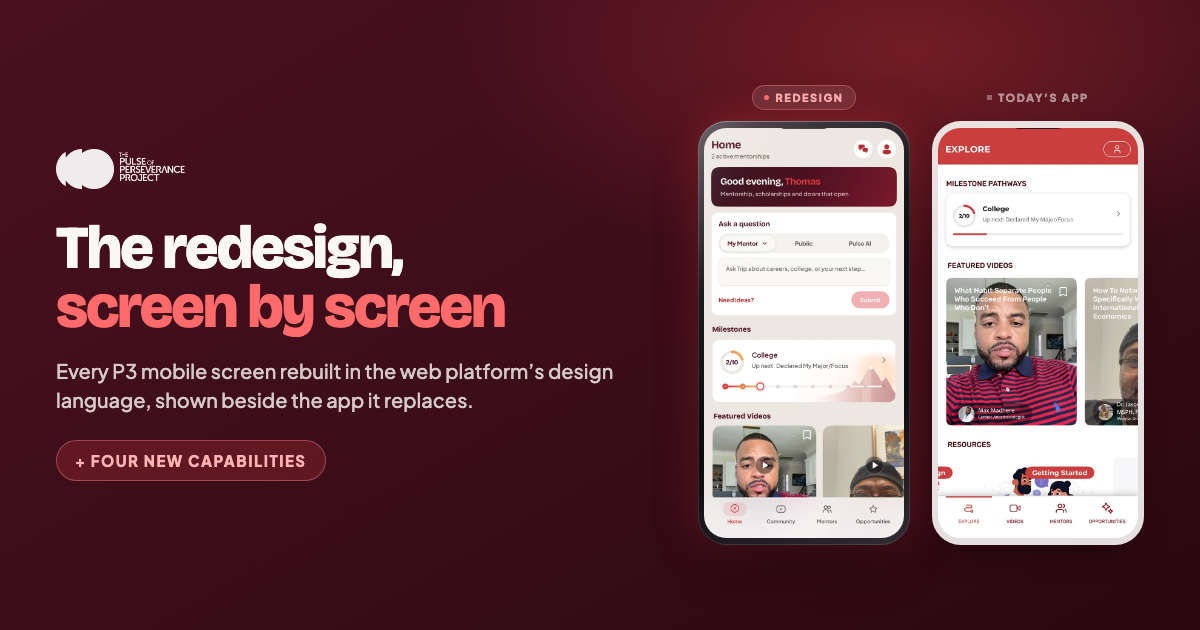
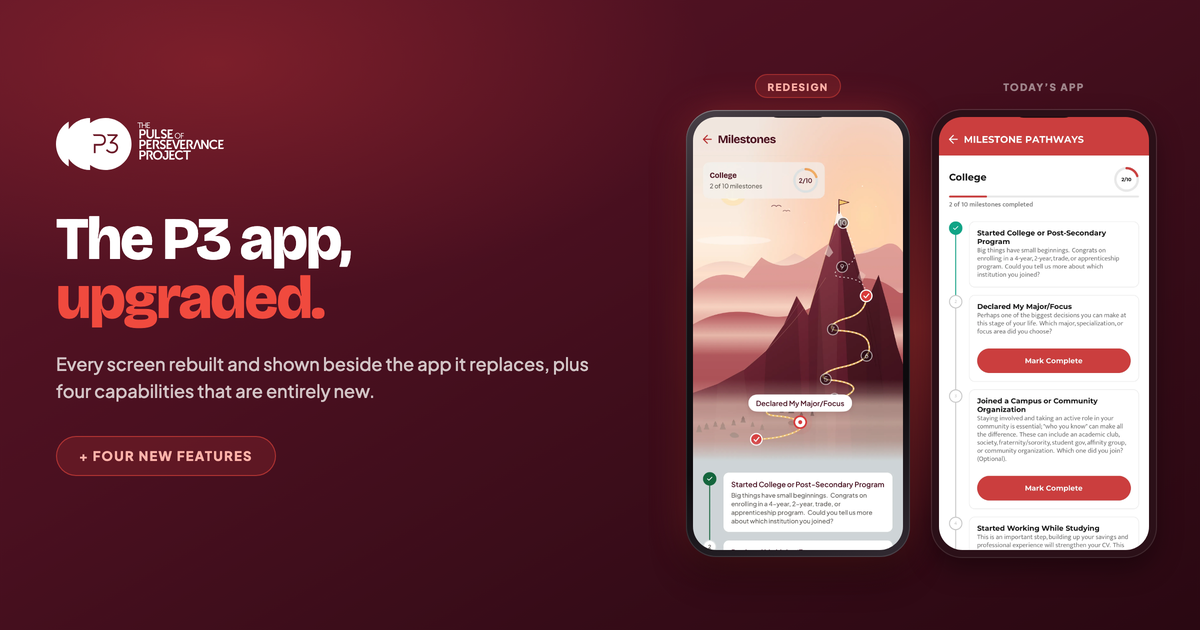
The page is headed The P3 app, upgraded, and the social card follows
screen by screen described a visual tour, which is the cosmetic read Max
pushed back on. Browser tab and social titles match, and the card is rebuilt:
new headline, the nav logo with the P3 letters showing, and the Milestones pair
on the current captures. Its cache-buster moves to v=4 or unfurls keep the old
card. Source is _og-card.html, gitignored like the rest of the tooling.

diff --git a/redesign-combined.js b/redesign-combined.js
@@ -4,7 +4,7 @@
 (function () {
   if (document.getElementById("rd-root")) return;
 
-  var css = "#rd-root /* Both faces are variable. font-stretch and optical sizing are declared because\n   Bricolage's default optical size is 96, #rd-root which renders 11px caps from the\n   display master and makes small labels look broken. */\n@font-face{font-family:\"Bricolage Grotesque\";src:url(\"https://tparis7.github.io/P3-Mobile-App-Redesign/assets/fonts/BricolageGrotesque.ttf\") format(\"truetype\");\n  font-weight:200 800;font-stretch:75% 100%;font-display:swap;}@font-face{font-family:\"Plus Jakarta Sans\";src:url(\"https://tparis7.github.io/P3-Mobile-App-Redesign/assets/fonts/PlusJakartaSans.ttf\") format(\"truetype\");\n  font-weight:200 800;font-display:swap;}#rd-root{\n  font-optical-sizing:auto;\n  --canvas:#ece6df; --canvas-2:#f4f1ee; --card:#faf8f6;\n  --hair:#ddd4ca; --hair-soft:rgba(74,16,32,.10);\n  --ink:#1a1a1a; --deep:#4a1020; --muted:#4a453f; --faint:#6b5f52;\n  --crimson:#d93a3a; --crimson-dk:#b82e2e;\n  --head:\"Bricolage Grotesque\",ui-sans-serif,system-ui,sans-serif;\n  --body:\"Plus Jakarta Sans\",ui-sans-serif,system-ui,-apple-system,sans-serif;\n  --s1:8px; --s2:12px; --s3:16px; --s4:24px; --s5:40px; --s6:64px;\n}#rd-root *, #rd-root *::before, #rd-root *::after{box-sizing:border-box}#rd-root /* A grey flash over a phone-sized screenshot reads as the image breaking. */\na, #rd-root button{-webkit-tap-highlight-color:transparent}#rd-root /* Hash links land below the sticky bar rather than under it. */\n.pcard{scroll-margin-top:80px}#rd-root [hidden]{display:none !important}#rd-root img{-webkit-user-drag:none;user-select:none}#rd-root :focus-visible{outline:2px solid var(--crimson);outline-offset:3px;border-radius:4px}#rd-root{margin:0;background:var(--canvas);color:var(--ink);font-family:var(--body);\n     -webkit-font-smoothing:antialiased}#rd-root /* ---------------- masthead ---------------- */\n/* Tight on purpose: the toggle and the first row of screens have to be the\n   first things on screen, #rd-root so the header gets only what it needs to introduce\n   them. It carried a three-figure scorecard until Sep 1. */\n.mast{background:var(--canvas-2);padding:clamp(26px,3vw,40px) 0 clamp(22px,2.4vw,32px)}#rd-root .wrap{max-width:1400px;margin:0 auto;\n  padding-inline:max(clamp(20px,4vw,64px),env(safe-area-inset-left),env(safe-area-inset-right))}#rd-root .mast-row{display:flex;align-items:flex-start;gap:clamp(18px,2.4vw,30px)}#rd-root .mast-icon{width:64px;height:64px;border-radius:16px;flex:none;box-shadow:0 10px 26px rgba(40,15,22,.14)}#rd-root .mast h1{font-family:var(--head);font-weight:800;font-size:clamp(1.75rem,3.2vw,2.5rem);\n  line-height:.98;letter-spacing:-.035em;color:var(--deep);margin:0}#rd-root .mast .sub{font-size:.9375rem;font-weight:500;line-height:1.5;color:var(--faint);max-width:74ch;margin:10px 0 0}#rd-root /* The counts that were a three-figure scorecard now live on the toggle, #rd-root which\n   is where a reader is already looking. All that has to survive up here is the\n   one claim the pairs cannot make on their own, #rd-root as a link to where it is made. */\n /* NOT inline-flex with a gap: that makes every text node a flex item and\n    spaces the words apart. The arrow gets its own margin instead. */\n\n/* ---------------- new capabilities band ---------------- */\n.newband{border-top:3px solid var(--crimson);padding-top:clamp(30px,3.6vw,52px);padding-bottom:clamp(56px,7vw,104px);\n  background:\n    radial-gradient(ellipse 70% 46% at 50% -8%, rgba(217,58,58,.30), transparent 62%),\n    linear-gradient(180deg,#4a1020 0%,#3a0d19 60%,#2d0812 100%);}#rd-root .newband h2{font-family:var(--head);font-weight:800;font-size:clamp(1.875rem,3.6vw,2.875rem);\n  line-height:1.05;letter-spacing:-.03em;color:#faf8f6;margin:0 auto;max-width:58ch;text-align:center}#rd-root .newband h2 .hl{color:var(--crimson)}#rd-root .newband .lede{font-size:15px;font-weight:500;line-height:1.6;color:rgba(250,248,246,.72);\n  max-width:60ch;margin:16px auto 0;text-align:center}#rd-root .newgrid{display:grid;grid-template-columns:repeat(4,1fr);gap:clamp(14px,1.6vw,22px);\n  margin-top:clamp(36px,4vw,56px)}#rd-root .ncard{background:rgba(250,248,246,.05);border:1px solid rgba(250,248,246,.14);\n  border-radius:20px;padding:18px 18px 22px;transition:transform .22s,border-color .22s}#rd-root .ncard .shotwrap{position:relative;margin:0 0 16px}#rd-root /* Title only, #rd-root centred under the device. The NEW sticker that sat beside it\n   went Sep 6 2026 (Thomas): the band's own heading already says these are new. */\n.ncard h3{font-family:var(--head);font-weight:700;font-size:1.25rem;line-height:1.2;\n  letter-spacing:-.02em;color:#faf8f6;margin:0 0 8px;text-align:center}#rd-root .ncard p{font-size:14px;font-weight:500;line-height:1.55;color:rgba(250,248,246,.78);margin:0}#rd-root /* The four new-capability shots sit in a real device. The pair grid's .frame\n   sizes itself from --pw, #rd-root which only .stage defines, #rd-root so inside .ncard the same\n   markup collapsed to a bare rectangle (Thomas, #rd-root Sep 2 2026: \"they are just\n   images\"). This one sizes from its own container, #rd-root restores the status bar the\n   captures were cropped of (148px of 1320, #rd-root so 11.2% of the width) in the app's\n   own canvas colour, #rd-root and puts the Dynamic Island and the side keys back. */\n.ncard .shotwrap{container-type:inline-size}#rd-root .device{position:relative;width:100%;padding:3.2cqw;border-radius:15.5cqw;\n  background:linear-gradient(158deg,#4a4148 0%,#141115 34%,#0d0b0e 68%,#332b33 100%);\n  box-shadow:inset 0 1px 0 rgba(255,255,255,.22),inset 0 0 0 1px rgba(255,255,255,.12),\n    0 2px 4px rgba(0,0,0,.28),0 14px 28px rgba(0,0,0,.36),\n    0 0 34px -6px rgba(217,58,58,.30),0 0 90px -20px rgba(217,58,58,.26);\n  transition:transform .22s}#rd-root .device::before{content:\"\";position:absolute;left:-1.1cqw;top:19cqw;width:1.1cqw;height:7cqw;\n  border-radius:.8cqw 0 0 .8cqw;background:#28232a;\n  box-shadow:0 11cqw 0 0 #28232a,0 21.5cqw 0 0 #28232a}#rd-root .device::after{content:\"\";position:absolute;right:-1.1cqw;top:31cqw;width:1.1cqw;height:15cqw;\n  border-radius:0 .8cqw .8cqw 0;background:#28232a}#rd-root .device-screen{position:relative;border-radius:12.3cqw;overflow:hidden;background:var(--status,#ece6df)}#rd-root .device-screen img{display:block;width:100%;height:auto}#rd-root .device .zbadge{top:4.5cqw;right:5cqw}#rd-root /* ---------------- sticky bar ---------------- */\n.bar{position:sticky;top:0;z-index:40;background:var(--card);border-bottom:1px solid transparent;\n  transition:box-shadow .2s,border-color .2s}#rd-root .bar.is-stuck{border-bottom-color:var(--hair);box-shadow:0 6px 20px rgba(40,15,22,.07)}#rd-root .bar-inner{max-width:1400px;margin:0 auto;padding:10px clamp(20px,4vw,64px);\n  display:flex;align-items:center;gap:clamp(12px,1.6vw,20px);min-height:56px}#rd-root .seg{position:relative;display:grid;grid-template-columns:1fr 1fr;width:clamp(240px,26vw,320px);\n  background:rgba(74,16,32,.07);border-radius:999px;padding:4px;isolation:isolate;flex:none}#rd-root .seg::before{content:\"\";position:absolute;z-index:0;top:4px;left:4px;width:calc(50% - 4px);\n  height:calc(100% - 8px);border-radius:999px;background:var(--deep);\n  box-shadow:0 3px 12px rgba(74,16,32,.28);transition:transform .32s cubic-bezier(.65,0,.35,1)}#rd-root .seg[data-role=\"mentor\"]::before{transform:translateX(100%)}#rd-root .seg button{position:relative;z-index:1;min-height:44px;appearance:none;border:0;background:none;\n  cursor:pointer;font:800 .875rem var(--body);color:var(--faint);transition:color .2s}#rd-root .seg button[aria-selected=\"true\"]{color:#fff}#rd-root /* ---------------- pair grid ----------------\n   One full-width band per pair meant eleven near-full screens of scrolling for\n   a reader who wanted the shape of the change in under a minute. The pairs are\n   a dense grid now: everything stays side by side, #rd-root three across on a wide\n   laptop, #rd-root and the whole mentee set is three rows instead of seven screens.\n   Detail did not go anywhere \u2014 every card opens the 2x lightbox. */\n.panel{background:var(--canvas-2);padding-block:clamp(32px,3.5vw,52px)}#rd-root .pairgrid{max-width:1400px;margin:0 auto;\n  padding-inline:max(clamp(20px,4vw,64px),env(safe-area-inset-left),env(safe-area-inset-right));\n  display:grid;grid-template-columns:repeat(auto-fit,minmax(390px,1fr));gap:clamp(18px,2vw,28px)}#rd-root .pcard{background:var(--card);border:1px solid var(--hair);border-radius:22px;\n  padding:clamp(18px,1.6vw,24px);display:flex;flex-direction:column;\n  scroll-margin-top:80px;transition:border-color .22s,box-shadow .22s,transform .22s}#rd-root .pcard .kicker{font-size:11px;font-weight:800;letter-spacing:.14em;color:var(--faint);margin:0 0 8px}#rd-root .pcard .kicker i{font-style:normal;color:var(--crimson)}#rd-root .pcard h2{font-family:var(--head);font-weight:800;font-size:clamp(1.375rem,1.7vw,1.75rem);\n  line-height:1.05;letter-spacing:-.03em;color:var(--deep);margin:0}#rd-root .rule{border:0;height:2px;width:34px;background:var(--crimson);margin:12px 0}#rd-root .note{font-size:.9375rem;font-weight:500;line-height:1.55;color:var(--muted);margin:0 0 clamp(16px,1.6vw,22px)}#rd-root .note b{font-weight:700;color:var(--deep)}#rd-root .stage{position:relative;display:flex;gap:clamp(12px,1.2vw,18px);align-items:flex-start;\n  justify-content:center;margin-top:auto}#rd-root .stage::before{content:\"\";position:absolute;inset:-4% 44% -6% -8%;pointer-events:none;z-index:0;\n  background:radial-gradient(ellipse 62% 52% at 50% 62%, rgba(217,58,58,.16), transparent 70%)}#rd-root .shot{position:relative;z-index:1;margin:0;display:flex;flex-direction:column;align-items:center;gap:10px}#rd-root /* Both labels get the SAME box \u2014 same padding, #rd-root same border, #rd-root same height \u2014 or\n   the two phones below them start at different y and the pair reads crooked.\n   Only the fill and the colour differ. */\n.lab{display:inline-flex;align-items:center;gap:6px;font-size:10px;font-weight:800;\n  letter-spacing:.13em;padding:5px 10px;border-radius:999px;border:1px solid transparent;\n  height:24px;line-height:1;white-space:nowrap}#rd-root .lab.new{color:var(--crimson-dk);background:var(--canvas-2);border-color:rgba(217,58,58,.22)}#rd-root .lab.new::before{content:\"\";width:5px;height:5px;border-radius:50%;background:var(--crimson)}#rd-root .lab.cur{color:var(--faint);background:transparent}#rd-root .lab.cur::before{content:\"\";width:5px;height:5px;background:var(--hair)}#rd-root /* Belt and braces: even if a label ever wraps, #rd-root the frames stay on one line. */\n.stage{align-items:flex-end}#rd-root .shot{justify-content:flex-end}#rd-root .zoomwrap{position:relative;appearance:none;border:0;padding:0;background:none;cursor:zoom-in;display:block}#rd-root .frame{--fp:calc(var(--pw)*.0303);--fr:calc(var(--pw)*.135);\n  width:var(--pw);padding:var(--fp);border-radius:var(--fr);position:relative;\n  transition:transform .22s,box-shadow .22s}#rd-root .screen{aspect-ratio:660/1360;border-radius:calc(var(--fr) - var(--fp));overflow:hidden;\n  background:linear-gradient(180deg,#efe9e3,#e4ded7);position:relative}#rd-root .screen img{width:100%;height:100%;object-fit:cover;display:block}#rd-root .screen.missing img{display:none}#rd-root .screen.missing::after{content:\"Capturing\";position:absolute;inset:0;display:grid;place-items:center;\n  font-family:var(--head);font-weight:800;font-size:.8rem;color:#b9afa5}#rd-root /* The redesign frame catches light: a bright top edge, #rd-root a warm crimson halo, #rd-root and a soft sheen down the left rail. The screenshot itself is never covered \u2014\n   the sheen sits on the FRAME, #rd-root outside .screen, #rd-root so no glass glare is laid over\n   the evidence. */\n.frame--new{background:linear-gradient(158deg,#4a4148 0%,#141115 34%,#0d0b0e 68%,#332b33 100%);\n  box-shadow:\n    inset 0 1px 0 rgba(255,255,255,.22),\n    inset 0 0 0 1px rgba(255,255,255,.12),\n    0 2px 4px rgba(40,15,22,.06),\n    0 12px 24px rgba(40,15,22,.12),\n    0 30px 52px -18px rgba(74,16,32,.26),\n    0 0 34px -6px rgba(217,58,58,.27),\n    0 0 90px -20px rgba(217,58,58,.24)}#rd-root .frame--new::after{content:\"\";position:absolute;inset:0;border-radius:inherit;pointer-events:none;\n  background:linear-gradient(112deg,rgba(255,255,255,.14) 0%,rgba(255,255,255,.04) 16%,\n             transparent 34%,transparent 100%)}#rd-root .frame--cur{background:var(--canvas-2);box-shadow:0 0 0 1px var(--hair),0 6px 14px -9px rgba(74,16,32,.22)}#rd-root /* A light touch only. Dimming the old app to flatter the new one is the one\n   thing that makes a comparison read as rigged, #rd-root so this takes the edge off the\n   current app's saturated red without changing what is legible in it. Scale, #rd-root crop and framing stay identical between the two. */\n.frame--cur .screen img{filter:saturate(.88)}#rd-root .zbadge{position:absolute;top:7px;right:7px;z-index:3;font-size:14px;line-height:1;opacity:.4;\n  color:#fff;text-shadow:0 1px 3px rgba(0,0,0,.5);transition:opacity .2s;pointer-events:none}#rd-root .frame--cur .zbadge{color:var(--faint);text-shadow:none}#rd-root /* ---------------- closing ---------------- */\n.closing{background:var(--card);border-top:1px solid var(--hair);padding-block:clamp(40px,4.5vw,64px)}#rd-root .closing p{font-family:var(--head);font-weight:800;font-size:clamp(1.25rem,2vw,1.75rem);\n  line-height:1.25;letter-spacing:-.025em;color:var(--deep);margin:0 auto;max-width:52ch;text-align:center}#rd-root .closing p .hl{color:var(--crimson)}#rd-root .closing a{color:var(--crimson-dk);font-weight:700;text-decoration:none}#rd-root .closing a:hover{text-decoration:underline}#rd-root /* ---------------- lightbox ---------------- */\n.lb{position:fixed;inset:0;z-index:90;background:rgba(26,18,20,.84);display:grid;place-items:center;\n  padding:clamp(16px,3vw,40px)}#rd-root .lb-x{position:absolute;top:16px;right:18px;appearance:none;border:0;background:rgba(250,248,246,.12);\n  color:#fff;font-size:26px;line-height:1;width:44px;height:44px;border-radius:50%;cursor:pointer}#rd-root .lb-title{position:absolute;top:22px;left:24px;margin:0;color:rgba(250,248,246,.82);\n  font-size:12px;font-weight:800;letter-spacing:.14em}#rd-root .lb-switch{display:none;gap:8px;margin-bottom:16px;justify-content:center}#rd-root .lb-switch button{appearance:none;border:0;min-height:44px;padding:0 18px;border-radius:999px;\n  font:800 12px var(--body);letter-spacing:.08em;background:rgba(250,248,246,.14);color:#fff;cursor:pointer}#rd-root .lb-switch button[aria-pressed=\"true\"]{background:var(--crimson)}#rd-root .lb-row{display:flex;gap:24px;align-items:center}#rd-root .lb-fig{margin:0;text-align:center}#rd-root .lb-fig img{max-height:78vh;max-height:78dvh;width:auto;border-radius:16px;display:block;\n  box-shadow:0 0 0 1px rgba(255,255,255,.14),0 30px 60px rgba(0,0,0,.5)}#rd-root .lb-fig figcaption{color:rgba(250,248,246,.72);font-size:11px;font-weight:800;letter-spacing:.14em;margin-top:12px}#rd-root .lb[data-mode=\"single\"] .lb-fig[data-side=\"current\"]{display:none}#rd-root .lb[data-mode=\"single\"] .lb-switch{display:none}#rd-root /* ---------------- reveal ---------------- */\n.pcard{opacity:0;transform:translateY(16px);\n  transition:opacity .5s cubic-bezier(.22,.61,.36,1),transform .5s cubic-bezier(.22,.61,.36,1)}#rd-root .pcard.is-in{opacity:1;transform:none}#rd-root .pcard.no-anim{transition:none}@media (hover:hover) and (pointer:fine){#rd-root .pcard:hover{border-color:rgba(217,58,58,.28);box-shadow:0 18px 40px -22px rgba(74,16,32,.30)}#rd-root .zoomwrap:hover .frame--new{transform:translateY(-3px);\n    box-shadow:inset 0 0 0 1px rgba(255,255,255,.10),0 2px 4px rgba(40,15,22,.06),\n               0 12px 24px rgba(40,15,22,.12),0 40px 68px -20px rgba(74,16,32,.26)}#rd-root .zoomwrap:hover .frame--cur{box-shadow:0 0 0 1px rgba(217,58,58,.5),0 8px 18px -10px rgba(74,16,32,.22)}#rd-root .zoomwrap:hover .zbadge{opacity:1}#rd-root .zoomwrap:hover .device{transform:translateY(-3px)}#rd-root .ncard:hover{transform:translateY(-4px);border-color:rgba(250,248,246,.26)}\n}#rd-root /* ---------------- breakpoints ---------------- */\n.stage{--pw:clamp(150px,12vw,210px)}@media (max-width:1239px){#rd-root .stage{--pw:clamp(146px,15vw,190px)} }@media (max-width:899px){#rd-root .pairgrid{grid-template-columns:1fr;gap:16px}#rd-root .pcard{max-width:640px;margin-inline:auto;width:100%}#rd-root .stage{--pw:clamp(150px,24vw,230px)}\n}@media (max-width:759px){#rd-root /* The four things above the first pair have to earn their height on a phone:\n     the header, #rd-root its lede and the toggle are all that\n     stand between opening the page and seeing a comparison. */\n  .mast{padding:20px 0 18px}#rd-root /* flex-start, #rd-root not center: centring against a three-line block floats the\n     icon beside the lede instead of sitting with the title. */\n  .mast-row{gap:13px;align-items:flex-start}#rd-root .mast-icon{width:46px;height:46px;border-radius:12px}#rd-root .mast h1{font-size:clamp(1.375rem,6.2vw,1.75rem);letter-spacing:-.03em;line-height:1.04}#rd-root .mast .sub{font-size:.8125rem;line-height:1.45;margin-top:7px}#rd-root /* Full-width toggle: at 240px it sat marooned against the left edge with the\n     wordmark hidden, #rd-root and half the bar was doing nothing. */\n  .seg{width:100%;max-width:none}#rd-root .seg button{font-size:.8125rem}#rd-root .bar-inner{padding-inline:16px;gap:10px}#rd-root /* The rules divide figures sitting on ONE line. Once they wrap they read as\n     indentation instead, #rd-root so the divider becomes a horizontal rule and the\n     column goes flush left. */\n  .pcard{padding:16px;border-radius:18px}#rd-root .pcard h2{font-size:1.25rem}#rd-root .note{font-size:.875rem;margin-bottom:14px}#rd-root .stage{--pw:clamp(126px,calc((100vw - 78px)/2),180px);gap:10px}#rd-root .bar-inner{min-height:52px;gap:12px}#rd-root /* Two-up as far down as it stays legible. One-up means four consecutive\n     full-height phones, #rd-root which is four screens of scrolling for four cards. */\n  .newgrid{grid-template-columns:repeat(2,1fr);gap:12px}#rd-root .ncard{padding:10px 10px 14px;border-radius:16px}#rd-root .ncard .shotwrap{margin-bottom:12px}#rd-root .ncard h3{font-size:1.0625rem}#rd-root .ncard p{font-size:12.5px;line-height:1.5}#rd-root .newband{padding-top:26px;padding-bottom:44px}#rd-root .newband h2{font-size:clamp(1.5rem,7vw,1.875rem)}#rd-root .newband .lede{font-size:14px}#rd-root .lb-row{display:block}#rd-root .lb-fig{display:none}#rd-root .lb-fig.is-active{display:block}#rd-root .lb-switch{display:flex}#rd-root .lb-fig img{max-width:88vw;max-height:calc(100vh - 148px);max-height:calc(100dvh - 148px);height:auto}\n}#rd-root /* 339, #rd-root not 379: a 375px iPhone is the most common device that will open this\n   and it must get the two-up grid. Only a 320px-class screen falls to one. */\n@media (max-width:339px){#rd-root .newgrid{grid-template-columns:1fr} }@media (prefers-reduced-motion:reduce){#rd-root *, #rd-root *::before, #rd-root *::after{transition:none !important;animation:none !important}#rd-root .pcard{opacity:1;transform:none}\n}\n";
+  var css = "#rd-root /* Both faces are variable. font-stretch and optical sizing are declared because\n   Bricolage's default optical size is 96, #rd-root which renders 11px caps from the\n   display master and makes small labels look broken. */\n@font-face{font-family:\"Bricolage Grotesque\";src:url(\"https://tparis7.github.io/P3-Mobile-App-Redesign/assets/fonts/BricolageGrotesque.ttf\") format(\"truetype\");\n  font-weight:200 800;font-stretch:75% 100%;font-display:swap;}@font-face{font-family:\"Plus Jakarta Sans\";src:url(\"https://tparis7.github.io/P3-Mobile-App-Redesign/assets/fonts/PlusJakartaSans.ttf\") format(\"truetype\");\n  font-weight:200 800;font-display:swap;}#rd-root{\n  font-optical-sizing:auto;\n  --canvas:#ece6df; --canvas-2:#f4f1ee; --card:#faf8f6;\n  --hair:#ddd4ca; --hair-soft:rgba(74,16,32,.10);\n  --ink:#1a1a1a; --deep:#4a1020; --muted:#4a453f; --faint:#6b5f52;\n  --crimson:#d93a3a; --crimson-dk:#b82e2e;\n  --head:\"Bricolage Grotesque\",ui-sans-serif,system-ui,sans-serif;\n  --body:\"Plus Jakarta Sans\",ui-sans-serif,system-ui,-apple-system,sans-serif;\n  --s1:8px; --s2:12px; --s3:16px; --s4:24px; --s5:40px; --s6:64px;\n}#rd-root *, #rd-root *::before, #rd-root *::after{box-sizing:border-box}#rd-root /* A grey flash over a phone-sized screenshot reads as the image breaking. */\na, #rd-root button{-webkit-tap-highlight-color:transparent}#rd-root /* Hash links land below the sticky bar rather than under it. */\n.pcard{scroll-margin-top:80px}#rd-root [hidden]{display:none !important}#rd-root img{-webkit-user-drag:none;user-select:none}#rd-root :focus-visible{outline:2px solid var(--crimson);outline-offset:3px;border-radius:4px}#rd-root{margin:0;background:var(--canvas);color:var(--ink);font-family:var(--body);\n     -webkit-font-smoothing:antialiased}#rd-root /* ---------------- masthead ---------------- */\n/* Tight on purpose: the toggle and the first row of screens have to be the\n   first things on screen, #rd-root so the header gets only what it needs to introduce\n   them. It carried a three-figure scorecard until Sep 1. */\n.mast{background:var(--canvas-2);padding:clamp(26px,3vw,40px) 0 clamp(22px,2.4vw,32px)}#rd-root .wrap{max-width:1400px;margin:0 auto;\n  padding-inline:max(clamp(20px,4vw,64px),env(safe-area-inset-left),env(safe-area-inset-right))}#rd-root .mast-row{display:flex;align-items:flex-start;gap:clamp(18px,2.4vw,30px)}#rd-root .mast-icon{width:64px;height:64px;border-radius:16px;flex:none;box-shadow:0 10px 26px rgba(40,15,22,.14)}#rd-root .mast h1{font-family:var(--head);font-weight:800;font-size:clamp(1.75rem,3.2vw,2.5rem);\n  line-height:.98;letter-spacing:-.035em;color:var(--deep);margin:0}#rd-root .mast h1 .hl{color:var(--crimson-dk)}#rd-root .mast .sub{font-size:.9375rem;font-weight:500;line-height:1.5;color:var(--faint);max-width:74ch;margin:10px 0 0}#rd-root /* The counts that were a three-figure scorecard now live on the toggle, #rd-root which\n   is where a reader is already looking. All that has to survive up here is the\n   one claim the pairs cannot make on their own, #rd-root as a link to where it is made. */\n /* NOT inline-flex with a gap: that makes every text node a flex item and\n    spaces the words apart. The arrow gets its own margin instead. */\n\n/* ---------------- new capabilities band ---------------- */\n.newband{border-top:3px solid var(--crimson);padding-top:clamp(30px,3.6vw,52px);padding-bottom:clamp(56px,7vw,104px);\n  background:\n    radial-gradient(ellipse 70% 46% at 50% -8%, rgba(217,58,58,.30), transparent 62%),\n    linear-gradient(180deg,#4a1020 0%,#3a0d19 60%,#2d0812 100%);}#rd-root .newband h2{font-family:var(--head);font-weight:800;font-size:clamp(1.875rem,3.6vw,2.875rem);\n  line-height:1.05;letter-spacing:-.03em;color:#faf8f6;margin:0 auto;max-width:58ch;text-align:center}#rd-root .newband h2 .hl{color:var(--crimson)}#rd-root .newband .lede{font-size:15px;font-weight:500;line-height:1.6;color:rgba(250,248,246,.72);\n  max-width:60ch;margin:16px auto 0;text-align:center}#rd-root .newgrid{display:grid;grid-template-columns:repeat(4,1fr);gap:clamp(14px,1.6vw,22px);\n  margin-top:clamp(36px,4vw,56px)}#rd-root .ncard{background:rgba(250,248,246,.05);border:1px solid rgba(250,248,246,.14);\n  border-radius:20px;padding:18px 18px 22px;transition:transform .22s,border-color .22s}#rd-root .ncard .shotwrap{position:relative;margin:0 0 16px}#rd-root /* Title only, #rd-root centred under the device. The NEW sticker that sat beside it\n   went Sep 6 2026 (Thomas): the band's own heading already says these are new. */\n.ncard h3{font-family:var(--head);font-weight:700;font-size:1.25rem;line-height:1.2;\n  letter-spacing:-.02em;color:#faf8f6;margin:0 0 8px;text-align:center}#rd-root .ncard p{font-size:14px;font-weight:500;line-height:1.55;color:rgba(250,248,246,.78);margin:0}#rd-root /* The four new-capability shots sit in a real device. The pair grid's .frame\n   sizes itself from --pw, #rd-root which only .stage defines, #rd-root so inside .ncard the same\n   markup collapsed to a bare rectangle (Thomas, #rd-root Sep 2 2026: \"they are just\n   images\"). This one sizes from its own container, #rd-root restores the status bar the\n   captures were cropped of (148px of 1320, #rd-root so 11.2% of the width) in the app's\n   own canvas colour, #rd-root and puts the Dynamic Island and the side keys back. */\n.ncard .shotwrap{container-type:inline-size}#rd-root .device{position:relative;width:100%;padding:3.2cqw;border-radius:15.5cqw;\n  background:linear-gradient(158deg,#4a4148 0%,#141115 34%,#0d0b0e 68%,#332b33 100%);\n  box-shadow:inset 0 1px 0 rgba(255,255,255,.22),inset 0 0 0 1px rgba(255,255,255,.12),\n    0 2px 4px rgba(0,0,0,.28),0 14px 28px rgba(0,0,0,.36),\n    0 0 34px -6px rgba(217,58,58,.30),0 0 90px -20px rgba(217,58,58,.26);\n  transition:transform .22s}#rd-root .device::before{content:\"\";position:absolute;left:-1.1cqw;top:19cqw;width:1.1cqw;height:7cqw;\n  border-radius:.8cqw 0 0 .8cqw;background:#28232a;\n  box-shadow:0 11cqw 0 0 #28232a,0 21.5cqw 0 0 #28232a}#rd-root .device::after{content:\"\";position:absolute;right:-1.1cqw;top:31cqw;width:1.1cqw;height:15cqw;\n  border-radius:0 .8cqw .8cqw 0;background:#28232a}#rd-root .device-screen{position:relative;border-radius:12.3cqw;overflow:hidden;background:var(--status,#ece6df)}#rd-root .device-screen img{display:block;width:100%;height:auto}#rd-root .device .zbadge{top:4.5cqw;right:5cqw}#rd-root /* ---------------- sticky bar ---------------- */\n.bar{position:sticky;top:0;z-index:40;background:var(--card);border-bottom:1px solid transparent;\n  transition:box-shadow .2s,border-color .2s}#rd-root .bar.is-stuck{border-bottom-color:var(--hair);box-shadow:0 6px 20px rgba(40,15,22,.07)}#rd-root .bar-inner{max-width:1400px;margin:0 auto;padding:10px clamp(20px,4vw,64px);\n  display:flex;align-items:center;gap:clamp(12px,1.6vw,20px);min-height:56px}#rd-root .seg{position:relative;display:grid;grid-template-columns:1fr 1fr;width:clamp(240px,26vw,320px);\n  background:rgba(74,16,32,.07);border-radius:999px;padding:4px;isolation:isolate;flex:none}#rd-root .seg::before{content:\"\";position:absolute;z-index:0;top:4px;left:4px;width:calc(50% - 4px);\n  height:calc(100% - 8px);border-radius:999px;background:var(--deep);\n  box-shadow:0 3px 12px rgba(74,16,32,.28);transition:transform .32s cubic-bezier(.65,0,.35,1)}#rd-root .seg[data-role=\"mentor\"]::before{transform:translateX(100%)}#rd-root .seg button{position:relative;z-index:1;min-height:44px;appearance:none;border:0;background:none;\n  cursor:pointer;font:800 .875rem var(--body);color:var(--faint);transition:color .2s}#rd-root .seg button[aria-selected=\"true\"]{color:#fff}#rd-root /* ---------------- pair grid ----------------\n   One full-width band per pair meant eleven near-full screens of scrolling for\n   a reader who wanted the shape of the change in under a minute. The pairs are\n   a dense grid now: everything stays side by side, #rd-root three across on a wide\n   laptop, #rd-root and the whole mentee set is three rows instead of seven screens.\n   Detail did not go anywhere \u2014 every card opens the 2x lightbox. */\n.panel{background:var(--canvas-2);padding-block:clamp(32px,3.5vw,52px)}#rd-root .pairgrid{max-width:1400px;margin:0 auto;\n  padding-inline:max(clamp(20px,4vw,64px),env(safe-area-inset-left),env(safe-area-inset-right));\n  display:grid;grid-template-columns:repeat(auto-fit,minmax(390px,1fr));gap:clamp(18px,2vw,28px)}#rd-root .pcard{background:var(--card);border:1px solid var(--hair);border-radius:22px;\n  padding:clamp(18px,1.6vw,24px);display:flex;flex-direction:column;\n  scroll-margin-top:80px;transition:border-color .22s,box-shadow .22s,transform .22s}#rd-root .pcard .kicker{font-size:11px;font-weight:800;letter-spacing:.14em;color:var(--faint);margin:0 0 8px}#rd-root .pcard .kicker i{font-style:normal;color:var(--crimson)}#rd-root .pcard h2{font-family:var(--head);font-weight:800;font-size:clamp(1.375rem,1.7vw,1.75rem);\n  line-height:1.05;letter-spacing:-.03em;color:var(--deep);margin:0}#rd-root .rule{border:0;height:2px;width:34px;background:var(--crimson);margin:12px 0}#rd-root .note{font-size:.9375rem;font-weight:500;line-height:1.55;color:var(--muted);margin:0 0 clamp(16px,1.6vw,22px)}#rd-root .note b{font-weight:700;color:var(--deep)}#rd-root .stage{position:relative;display:flex;gap:clamp(12px,1.2vw,18px);align-items:flex-start;\n  justify-content:center;margin-top:auto}#rd-root .stage::before{content:\"\";position:absolute;inset:-4% 44% -6% -8%;pointer-events:none;z-index:0;\n  background:radial-gradient(ellipse 62% 52% at 50% 62%, rgba(217,58,58,.16), transparent 70%)}#rd-root .shot{position:relative;z-index:1;margin:0;display:flex;flex-direction:column;align-items:center;gap:10px}#rd-root /* Both labels get the SAME box \u2014 same padding, #rd-root same border, #rd-root same height \u2014 or\n   the two phones below them start at different y and the pair reads crooked.\n   Only the fill and the colour differ. */\n.lab{display:inline-flex;align-items:center;gap:6px;font-size:10px;font-weight:800;\n  letter-spacing:.13em;padding:5px 10px;border-radius:999px;border:1px solid transparent;\n  height:24px;line-height:1;white-space:nowrap}#rd-root .lab.new{color:var(--crimson-dk);background:var(--canvas-2);border-color:rgba(217,58,58,.22)}#rd-root .lab.new::before{content:\"\";width:5px;height:5px;border-radius:50%;background:var(--crimson)}#rd-root .lab.cur{color:var(--faint);background:transparent}#rd-root .lab.cur::before{content:\"\";width:5px;height:5px;background:var(--hair)}#rd-root /* Belt and braces: even if a label ever wraps, #rd-root the frames stay on one line. */\n.stage{align-items:flex-end}#rd-root .shot{justify-content:flex-end}#rd-root .zoomwrap{position:relative;appearance:none;border:0;padding:0;background:none;cursor:zoom-in;display:block}#rd-root .frame{--fp:calc(var(--pw)*.0303);--fr:calc(var(--pw)*.135);\n  width:var(--pw);padding:var(--fp);border-radius:var(--fr);position:relative;\n  transition:transform .22s,box-shadow .22s}#rd-root .screen{aspect-ratio:660/1360;border-radius:calc(var(--fr) - var(--fp));overflow:hidden;\n  background:linear-gradient(180deg,#efe9e3,#e4ded7);position:relative}#rd-root .screen img{width:100%;height:100%;object-fit:cover;display:block}#rd-root .screen.missing img{display:none}#rd-root .screen.missing::after{content:\"Capturing\";position:absolute;inset:0;display:grid;place-items:center;\n  font-family:var(--head);font-weight:800;font-size:.8rem;color:#b9afa5}#rd-root /* The redesign frame catches light: a bright top edge, #rd-root a warm crimson halo, #rd-root and a soft sheen down the left rail. The screenshot itself is never covered \u2014\n   the sheen sits on the FRAME, #rd-root outside .screen, #rd-root so no glass glare is laid over\n   the evidence. */\n.frame--new{background:linear-gradient(158deg,#4a4148 0%,#141115 34%,#0d0b0e 68%,#332b33 100%);\n  box-shadow:\n    inset 0 1px 0 rgba(255,255,255,.22),\n    inset 0 0 0 1px rgba(255,255,255,.12),\n    0 2px 4px rgba(40,15,22,.06),\n    0 12px 24px rgba(40,15,22,.12),\n    0 30px 52px -18px rgba(74,16,32,.26),\n    0 0 34px -6px rgba(217,58,58,.27),\n    0 0 90px -20px rgba(217,58,58,.24)}#rd-root .frame--new::after{content:\"\";position:absolute;inset:0;border-radius:inherit;pointer-events:none;\n  background:linear-gradient(112deg,rgba(255,255,255,.14) 0%,rgba(255,255,255,.04) 16%,\n             transparent 34%,transparent 100%)}#rd-root .frame--cur{background:var(--canvas-2);box-shadow:0 0 0 1px var(--hair),0 6px 14px -9px rgba(74,16,32,.22)}#rd-root /* A light touch only. Dimming the old app to flatter the new one is the one\n   thing that makes a comparison read as rigged, #rd-root so this takes the edge off the\n   current app's saturated red without changing what is legible in it. Scale, #rd-root crop and framing stay identical between the two. */\n.frame--cur .screen img{filter:saturate(.88)}#rd-root .zbadge{position:absolute;top:7px;right:7px;z-index:3;font-size:14px;line-height:1;opacity:.4;\n  color:#fff;text-shadow:0 1px 3px rgba(0,0,0,.5);transition:opacity .2s;pointer-events:none}#rd-root .frame--cur .zbadge{color:var(--faint);text-shadow:none}#rd-root /* ---------------- closing ---------------- */\n.closing{background:var(--card);border-top:1px solid var(--hair);padding-block:clamp(40px,4.5vw,64px)}#rd-root .closing p{font-family:var(--head);font-weight:800;font-size:clamp(1.25rem,2vw,1.75rem);\n  line-height:1.25;letter-spacing:-.025em;color:var(--deep);margin:0 auto;max-width:52ch;text-align:center}#rd-root .closing p .hl{color:var(--crimson)}#rd-root .closing a{color:var(--crimson-dk);font-weight:700;text-decoration:none}#rd-root .closing a:hover{text-decoration:underline}#rd-root /* ---------------- lightbox ---------------- */\n.lb{position:fixed;inset:0;z-index:90;background:rgba(26,18,20,.84);display:grid;place-items:center;\n  padding:clamp(16px,3vw,40px)}#rd-root .lb-x{position:absolute;top:16px;right:18px;appearance:none;border:0;background:rgba(250,248,246,.12);\n  color:#fff;font-size:26px;line-height:1;width:44px;height:44px;border-radius:50%;cursor:pointer}#rd-root .lb-title{position:absolute;top:22px;left:24px;margin:0;color:rgba(250,248,246,.82);\n  font-size:12px;font-weight:800;letter-spacing:.14em}#rd-root .lb-switch{display:none;gap:8px;margin-bottom:16px;justify-content:center}#rd-root .lb-switch button{appearance:none;border:0;min-height:44px;padding:0 18px;border-radius:999px;\n  font:800 12px var(--body);letter-spacing:.08em;background:rgba(250,248,246,.14);color:#fff;cursor:pointer}#rd-root .lb-switch button[aria-pressed=\"true\"]{background:var(--crimson)}#rd-root .lb-row{display:flex;gap:24px;align-items:center}#rd-root .lb-fig{margin:0;text-align:center}#rd-root .lb-fig img{max-height:78vh;max-height:78dvh;width:auto;border-radius:16px;display:block;\n  box-shadow:0 0 0 1px rgba(255,255,255,.14),0 30px 60px rgba(0,0,0,.5)}#rd-root .lb-fig figcaption{color:rgba(250,248,246,.72);font-size:11px;font-weight:800;letter-spacing:.14em;margin-top:12px}#rd-root .lb[data-mode=\"single\"] .lb-fig[data-side=\"current\"]{display:none}#rd-root .lb[data-mode=\"single\"] .lb-switch{display:none}#rd-root /* ---------------- reveal ---------------- */\n.pcard{opacity:0;transform:translateY(16px);\n  transition:opacity .5s cubic-bezier(.22,.61,.36,1),transform .5s cubic-bezier(.22,.61,.36,1)}#rd-root .pcard.is-in{opacity:1;transform:none}#rd-root .pcard.no-anim{transition:none}@media (hover:hover) and (pointer:fine){#rd-root .pcard:hover{border-color:rgba(217,58,58,.28);box-shadow:0 18px 40px -22px rgba(74,16,32,.30)}#rd-root .zoomwrap:hover .frame--new{transform:translateY(-3px);\n    box-shadow:inset 0 0 0 1px rgba(255,255,255,.10),0 2px 4px rgba(40,15,22,.06),\n               0 12px 24px rgba(40,15,22,.12),0 40px 68px -20px rgba(74,16,32,.26)}#rd-root .zoomwrap:hover .frame--cur{box-shadow:0 0 0 1px rgba(217,58,58,.5),0 8px 18px -10px rgba(74,16,32,.22)}#rd-root .zoomwrap:hover .zbadge{opacity:1}#rd-root .zoomwrap:hover .device{transform:translateY(-3px)}#rd-root .ncard:hover{transform:translateY(-4px);border-color:rgba(250,248,246,.26)}\n}#rd-root /* ---------------- breakpoints ---------------- */\n.stage{--pw:clamp(150px,12vw,210px)}@media (max-width:1239px){#rd-root .stage{--pw:clamp(146px,15vw,190px)} }@media (max-width:899px){#rd-root .pairgrid{grid-template-columns:1fr;gap:16px}#rd-root .pcard{max-width:640px;margin-inline:auto;width:100%}#rd-root .stage{--pw:clamp(150px,24vw,230px)}\n}@media (max-width:759px){#rd-root /* The four things above the first pair have to earn their height on a phone:\n     the header, #rd-root its lede and the toggle are all that\n     stand between opening the page and seeing a comparison. */\n  .mast{padding:20px 0 18px}#rd-root /* flex-start, #rd-root not center: centring against a three-line block floats the\n     icon beside the lede instead of sitting with the title. */\n  .mast-row{gap:13px;align-items:flex-start}#rd-root .mast-icon{width:46px;height:46px;border-radius:12px}#rd-root .mast h1{font-size:clamp(1.375rem,6.2vw,1.75rem);letter-spacing:-.03em;line-height:1.04}#rd-root .mast .sub{font-size:.8125rem;line-height:1.45;margin-top:7px}#rd-root /* Full-width toggle: at 240px it sat marooned against the left edge with the\n     wordmark hidden, #rd-root and half the bar was doing nothing. */\n  .seg{width:100%;max-width:none}#rd-root .seg button{font-size:.8125rem}#rd-root .bar-inner{padding-inline:16px;gap:10px}#rd-root /* The rules divide figures sitting on ONE line. Once they wrap they read as\n     indentation instead, #rd-root so the divider becomes a horizontal rule and the\n     column goes flush left. */\n  .pcard{padding:16px;border-radius:18px}#rd-root .pcard h2{font-size:1.25rem}#rd-root .note{font-size:.875rem;margin-bottom:14px}#rd-root .stage{--pw:clamp(126px,calc((100vw - 78px)/2),180px);gap:10px}#rd-root .bar-inner{min-height:52px;gap:12px}#rd-root /* Two-up as far down as it stays legible. One-up means four consecutive\n     full-height phones, #rd-root which is four screens of scrolling for four cards. */\n  .newgrid{grid-template-columns:repeat(2,1fr);gap:12px}#rd-root .ncard{padding:10px 10px 14px;border-radius:16px}#rd-root .ncard .shotwrap{margin-bottom:12px}#rd-root .ncard h3{font-size:1.0625rem}#rd-root .ncard p{font-size:12.5px;line-height:1.5}#rd-root .newband{padding-top:26px;padding-bottom:44px}#rd-root .newband h2{font-size:clamp(1.5rem,7vw,1.875rem)}#rd-root .newband .lede{font-size:14px}#rd-root .lb-row{display:block}#rd-root .lb-fig{display:none}#rd-root .lb-fig.is-active{display:block}#rd-root .lb-switch{display:flex}#rd-root .lb-fig img{max-width:88vw;max-height:calc(100vh - 148px);max-height:calc(100dvh - 148px);height:auto}\n}#rd-root /* 339, #rd-root not 379: a 375px iPhone is the most common device that will open this\n   and it must get the two-up grid. Only a 320px-class screen falls to one. */\n@media (max-width:339px){#rd-root .newgrid{grid-template-columns:1fr} }@media (prefers-reduced-motion:reduce){#rd-root *, #rd-root *::before, #rd-root *::after{transition:none !important;animation:none !important}#rd-root .pcard{opacity:1;transform:none}\n}\n";
   var style = document.createElement("style");
   style.id = "rd-style";
   style.textContent = css;
@@ -12,7 +12,7 @@
 
   var root = document.createElement("div");
   root.id = "rd-root";
-  root.innerHTML = "\n\n<header class=\"mast\">\n  <div class=\"wrap mast-row\">\n    <img class=\"mast-icon\" src=\"https://tparis7.github.io/P3-Mobile-App-Redesign/assets/app-icon.png\" alt=\"\">\n    <div>\n      <h1>The new P3 app, screen by screen</h1>\n      <p class=\"sub\">Switch between the mentee and mentor experience below.</p>\n    </div>\n  </div>\n</header>\n\n<div id=\"sentinel\" aria-hidden=\"true\"></div>\n\n<div class=\"bar\" id=\"bar\">\n  <div class=\"bar-inner\">\n    <div class=\"seg\" id=\"seg\" role=\"tablist\" data-role=\"mentee\" aria-label=\"Role\">\n      <button role=\"tab\" id=\"tab-mentee\" aria-selected=\"true\" aria-controls=\"panel-mentee\" tabindex=\"0\">Mentee</button>\n      <button role=\"tab\" id=\"tab-mentor\" aria-selected=\"false\" aria-controls=\"panel-mentor\" tabindex=\"-1\">Mentor</button>\n    </div>\n  </div>\n</div>\n\n<main>\n  <section class=\"panel\" id=\"panel-mentee\" role=\"tabpanel\" aria-labelledby=\"tab-mentee\"></section>\n  <section class=\"panel\" id=\"panel-mentor\" role=\"tabpanel\" aria-labelledby=\"tab-mentor\" hidden></section>\n</main>\n\n<section class=\"newband\" id=\"new\">\n  <div class=\"wrap\">\n    <h2 id=\"new-h2\">New <span class=\"hl\">Features</span></h2>\n    <p class=\"lede\">A major upgrade to the P3 experience, not a visual refresh. Every screen above was rebuilt, and these four capabilities are entirely new.</p>\n    <div class=\"newgrid\" id=\"newgrid\"></div>\n  </div>\n</section>\n\n<section class=\"closing\">\n  <div class=\"wrap\">\n    <p>Same flows, same navigation, <span class=\"hl\">a major upgrade</span>.</p>\n  </div>\n</section>\n\n<div class=\"lb\" id=\"lb\" hidden role=\"dialog\" aria-modal=\"true\" aria-label=\"Screen comparison\" data-mode=\"pair\">\n  <button class=\"lb-x\" id=\"lb-x\" aria-label=\"Close\">&times;</button>\n  <p class=\"lb-title\" id=\"lb-title\"></p>\n  <div>\n    <div class=\"lb-switch\" id=\"lb-switch\" role=\"group\" aria-label=\"Which build\">\n      <button data-side=\"redesign\" aria-pressed=\"true\">Redesign</button>\n      <button data-side=\"current\" aria-pressed=\"false\">Today&rsquo;s app</button>\n    </div>\n    <div class=\"lb-row\">\n      <figure class=\"lb-fig is-active\" data-side=\"redesign\"><img alt=\"\"><figcaption>Redesign</figcaption></figure>\n      <figure class=\"lb-fig\" data-side=\"current\"><img alt=\"\"><figcaption>Today&rsquo;s app</figcaption></figure>\n    </div>\n  </div>\n</div>\n\n";
+  root.innerHTML = "\n\n<header class=\"mast\">\n  <div class=\"wrap mast-row\">\n    <img class=\"mast-icon\" src=\"https://tparis7.github.io/P3-Mobile-App-Redesign/assets/app-icon.png\" alt=\"\">\n    <div>\n      <h1>The P3 app, <span class=\"hl\">upgraded</span>.</h1>\n      <p class=\"sub\">Switch between the mentee and mentor experience below.</p>\n    </div>\n  </div>\n</header>\n\n<div id=\"sentinel\" aria-hidden=\"true\"></div>\n\n<div class=\"bar\" id=\"bar\">\n  <div class=\"bar-inner\">\n    <div class=\"seg\" id=\"seg\" role=\"tablist\" data-role=\"mentee\" aria-label=\"Role\">\n      <button role=\"tab\" id=\"tab-mentee\" aria-selected=\"true\" aria-controls=\"panel-mentee\" tabindex=\"0\">Mentee</button>\n      <button role=\"tab\" id=\"tab-mentor\" aria-selected=\"false\" aria-controls=\"panel-mentor\" tabindex=\"-1\">Mentor</button>\n    </div>\n  </div>\n</div>\n\n<main>\n  <section class=\"panel\" id=\"panel-mentee\" role=\"tabpanel\" aria-labelledby=\"tab-mentee\"></section>\n  <section class=\"panel\" id=\"panel-mentor\" role=\"tabpanel\" aria-labelledby=\"tab-mentor\" hidden></section>\n</main>\n\n<section class=\"newband\" id=\"new\">\n  <div class=\"wrap\">\n    <h2 id=\"new-h2\">New <span class=\"hl\">Features</span></h2>\n    <p class=\"lede\">A major upgrade to the P3 experience, not a visual refresh. Every screen above was rebuilt, and these four capabilities are entirely new.</p>\n    <div class=\"newgrid\" id=\"newgrid\"></div>\n  </div>\n</section>\n\n<section class=\"closing\">\n  <div class=\"wrap\">\n    <p>Same flows, same navigation, <span class=\"hl\">a major upgrade</span>.</p>\n  </div>\n</section>\n\n<div class=\"lb\" id=\"lb\" hidden role=\"dialog\" aria-modal=\"true\" aria-label=\"Screen comparison\" data-mode=\"pair\">\n  <button class=\"lb-x\" id=\"lb-x\" aria-label=\"Close\">&times;</button>\n  <p class=\"lb-title\" id=\"lb-title\"></p>\n  <div>\n    <div class=\"lb-switch\" id=\"lb-switch\" role=\"group\" aria-label=\"Which build\">\n      <button data-side=\"redesign\" aria-pressed=\"true\">Redesign</button>\n      <button data-side=\"current\" aria-pressed=\"false\">Today&rsquo;s app</button>\n    </div>\n    <div class=\"lb-row\">\n      <figure class=\"lb-fig is-active\" data-side=\"redesign\"><img alt=\"\"><figcaption>Redesign</figcaption></figure>\n      <figure class=\"lb-fig\" data-side=\"current\"><img alt=\"\"><figcaption>Today&rsquo;s app</figcaption></figure>\n    </div>\n  </div>\n</div>\n\n";
 
   /* Below Webflow's nav, above its footer: this page keeps the site chrome. */
   var footer = document.querySelector("footer, .p3-footer, [class*='footer']");

diff --git a/index.html b/index.html
@@ -17,18 +17,18 @@
 <meta property="og:type" content="website">
 <meta property="og:site_name" content="Pulse of Perseverance Project">
 <meta property="og:url" content="https://tparis7.github.io/P3-Mobile-App-Redesign/">
-<meta property="og:title" content="The new P3 app, screen by screen">
+<meta property="og:title" content="The P3 app, upgraded">
 <meta property="og:description" content="Every screen rebuilt and shown beside the app it replaces, plus four capabilities that are entirely new.">
-<meta property="og:image" content="https://tparis7.github.io/P3-Mobile-App-Redesign/assets/og-image.png?v=3">
+<meta property="og:image" content="https://tparis7.github.io/P3-Mobile-App-Redesign/assets/og-image.png?v=4">
 <meta property="og:image:type" content="image/png">
 <meta property="og:image:width" content="1200">
 <meta property="og:image:height" content="630">
 
 <meta name="twitter:card" content="summary_large_image">
-<meta name="twitter:title" content="The new P3 app, screen by screen">
+<meta name="twitter:title" content="The P3 app, upgraded">
 <meta name="twitter:description" content="Every screen rebuilt and shown beside the app it replaces, plus four capabilities that are entirely new.">
-<meta name="twitter:image" content="https://tparis7.github.io/P3-Mobile-App-Redesign/assets/og-image.png?v=3">
-<title>The new P3 app, screen by screen</title>
+<meta name="twitter:image" content="https://tparis7.github.io/P3-Mobile-App-Redesign/assets/og-image.png?v=4">
+<title>The P3 app, upgraded</title>
 <style>
 /* Both faces are variable. font-stretch and optical sizing are declared because
    Bricolage's default optical size is 96, which renders 11px caps from the
@@ -70,6 +70,7 @@ body{margin:0;background:var(--canvas);color:var(--ink);font-family:var(--body);
 .mast-icon{width:64px;height:64px;border-radius:16px;flex:none;box-shadow:0 10px 26px rgba(40,15,22,.14)}
 .mast h1{font-family:var(--head);font-weight:800;font-size:clamp(1.75rem,3.2vw,2.5rem);
   line-height:.98;letter-spacing:-.035em;color:var(--deep);margin:0}
+.mast h1 .hl{color:var(--crimson-dk)}
 .mast .sub{font-size:.9375rem;font-weight:500;line-height:1.5;color:var(--faint);max-width:74ch;margin:10px 0 0}
 /* The counts that were a three-figure scorecard now live on the toggle, which
    is where a reader is already looking. All that has to survive up here is the
@@ -318,7 +319,7 @@ body{margin:0;background:var(--canvas);color:var(--ink);font-family:var(--body);
   <div class="wrap mast-row">
     <img class="mast-icon" src="assets/app-icon.png" alt="">
     <div>
-      <h1>The new P3 app, screen by screen</h1>
+      <h1>The P3 app, <span class="hl">upgraded</span>.</h1>
       <p class="sub">Switch between the mentee and mentor experience below.</p>
     </div>
   </div>
